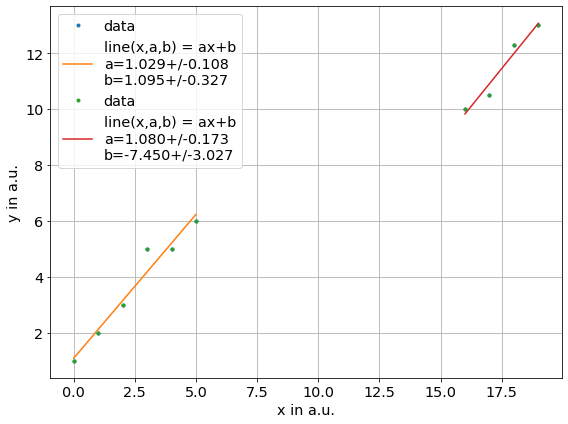
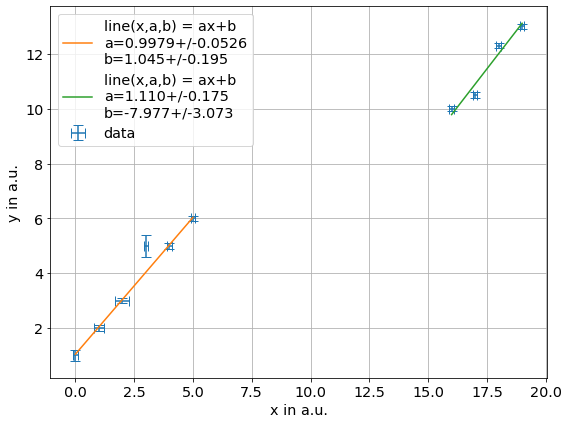
Deploying to gh-pages from  @ 96b0550a83229928ab08a0a710f75b3ecffa3be0 🚀

diff --git a/searchindex.js b/searchindex.js
@@ -1,1 +1,1 @@
-Search.setIndex({docnames:["_autosummary/smpl.debug","_autosummary/smpl.doc","_autosummary/smpl.functions","_autosummary/smpl.io","_autosummary/smpl.parallel","_autosummary/smpl.plot","_autosummary/smpl.util","example/index","example/parallel/parallel","example/plot/custom/test_custom","example/plot/functions/funcs","example/plot/index","example/plot/linear/test_linear","example/plot/multiplot/multi","example/plot/residue/residue","example/plot/selective_fit/test_selective_fit","index"],envversion:{"sphinx.domains.c":2,"sphinx.domains.changeset":1,"sphinx.domains.citation":1,"sphinx.domains.cpp":3,"sphinx.domains.index":1,"sphinx.domains.javascript":2,"sphinx.domains.math":2,"sphinx.domains.python":2,"sphinx.domains.rst":2,"sphinx.domains.std":1,"sphinx.ext.todo":2,"sphinx.ext.viewcode":1,nbsphinx:3,sphinx:56},filenames:["_autosummary/smpl.debug.rst","_autosummary/smpl.doc.rst","_autosummary/smpl.functions.rst","_autosummary/smpl.io.rst","_autosummary/smpl.parallel.rst","_autosummary/smpl.plot.rst","_autosummary/smpl.util.rst","example/index.rst","example/parallel/parallel.ipynb","example/plot/custom/test_custom.ipynb","example/plot/functions/funcs.ipynb","example/plot/index.rst","example/plot/linear/test_linear.ipynb","example/plot/multiplot/multi.ipynb","example/plot/residue/residue.ipynb","example/plot/selective_fit/test_selective_fit.ipynb","index.rst"],objects:{"":{smpl:[16,0,0,"-"]},"smpl.debug":{file1:[0,1,1,""],file:[0,1,1,""],msg1:[0,1,1,""],msg:[0,1,1,""],once:[0,1,1,""],table:[0,1,1,""],table_flush_header:[0,1,1,""],table_flush_line:[0,1,1,""]},"smpl.doc":{append:[1,1,1,""],insert_eq:[1,1,1,""]},"smpl.functions":{"const":[2,1,1,""],cos_abs:[2,1,1,""],exponential:[2,1,1,""],fft:[2,1,1,""],gauss:[2,1,1,""],line:[2,1,1,""],linear:[2,1,1,""],lorentz:[2,1,1,""],quadratic:[2,1,1,""]},"smpl.io":{gf:[3,1,1,""],pwd:[3,1,1,""]},"smpl.parallel":{calc:[4,1,1,""],gen:[4,1,1,""],par:[4,1,1,""],res:[4,1,1,""]},"smpl.plot":{"function":[5,1,1,""],data:[5,1,1,""],fit:[5,1,1,""],unv:[5,1,1,""],usd:[5,1,1,""]},"smpl.util":{has:[6,1,1,""]},smpl:{debug:[0,0,0,"-"],doc:[1,0,0,"-"],functions:[2,0,0,"-"],io:[3,0,0,"-"],parallel:[4,0,0,"-"],plot:[5,0,0,"-"],util:[6,0,0,"-"]}},objnames:{"0":["py","module","Python module"],"1":["py","function","Python function"]},objtypes:{"0":"py:module","1":"py:function"},terms:{"0000507902447304":8,"0034626572607985":14,"004652486401592212":9,"004996586085156836":9,"005548445222666175":9,"0175":9,"017517668891345015":9,"0370200979931061":14,"05947578069703216":14,"0675892412774686":9,"100":[8,10],"1000000":8,"1024":8,"1089":8,"1156":8,"121":8,"1225":8,"1296":8,"132":9,"1369":8,"137":9,"144":8,"1444":8,"1521":8,"1600":8,"1681":8,"169":8,"1764":8,"180":9,"1849":8,"1936":8,"196":8,"19838016816365187":14,"2025":8,"2094692219099785e":9,"2116":8,"2209":8,"223":14,"225":8,"2304":8,"2401":8,"2500":8,"256":8,"2601":8,"2704":8,"2809":8,"289":8,"2916":8,"2\u03c0f":2,"3025":8,"3136":8,"31556952":8,"324":8,"3249":8,"3364":8,"3481":8,"3600":8,"361":8,"3721":8,"3844":8,"3969":8,"400":8,"4096":8,"4225":8,"4356":8,"441":8,"4489":8,"4624":8,"4761":8,"484":8,"4900":8,"5041":8,"5184":8,"529":8,"5329":8,"5476":8,"5625":8,"576":8,"5776":8,"5929":8,"6084":8,"6169371384944835":9,"6241":8,"625":8,"6400":8,"6561":8,"6724":8,"676":8,"6889":8,"7056":8,"7225":8,"729":8,"7396":8,"7569":8,"77077909042768":9,"7744":8,"784":8,"7921":8,"799999999999997":8,"8100":8,"8281":8,"841":8,"8464":8,"8649":8,"8836":8,"900":8,"9025":8,"9216":8,"9409":8,"9604":8,"961":8,"9801":8,"class":5,"const":2,"float":5,"function":[0,1,3,4,5,6,7,8,9,11,12,13,14,15,16],"import":[5,8,9,10,12,13,14,15],"int":[5,13],"new":[5,8,12],"return":[0,3,4,5,8,9,13],"true":[0,14],Axes:14,__doc__:1,_back:0,_kei:0,_msg:0,_print:0,_valu:0,add:5,adt:13,against:5,also:5,also_data:[5,15],also_fit:5,anlg:9,apn:14,append:1,arg:[4,5],arr:5,arrai:[5,9,12,14],array_lik:5,avail:[8,12],axi:5,basic:4,becaus:5,between:5,bool:5,calc:[4,8],call:5,can:5,cdot:2,check:6,code:[1,5],collect:16,color:5,compat:14,contain:5,cos:[2,9,10],cos_ab:2,csv:[0,9],current:[0,3],custom:[7,11,16],dat:14,data:[5,9,12,14,15],data_color:5,data_malu:9,datai:5,datax:5,ddot:10,debug_level:0,debug_t:0,def:[1,4,8,9,13],delimit:[9,14],deriv:5,deviat:5,dict:6,differ:5,digit:3,dirti:14,displai:5,document:1,doe:5,dot:[11,13],dtype:[9,14],each:4,egg:14,either:5,element:[4,5],end:5,equal:1,errorbar:5,evalu:4,exampl:[1,4,5,16],execut:4,exp:[2,11,13],exponenti:2,fals:[0,13,14,15],fft:2,figur:14,file1:0,file:[0,3,5],filenam:0,first:5,fit:[5,7,11,14,16],fit_color:5,fix:10,fmt:[5,12,14,15],format:[3,5],frac:[2,10,13],frang:[5,15],from:[0,4,5,8,9,10,12,13,14,15],func:5,gauss:2,gen:4,gener:[4,6],given:5,gompertz:13,grid:5,has:6,have:5,highest:5,hiho:1,hire:5,home:14,i_max:9,i_min:9,impli:[10,13],includ:14,incorrect:14,index:[5,16],init:[5,13,14,15],initi:5,input:3,insert:1,insert_eq:1,instal:[8,12],integ:5,intens:9,its:1,just:0,kei:[0,6],kwarg:[0,4,5],label:[5,12,14,15],lambda:[4,10,15],left:2,legend:5,level:0,lib:14,like:0,limit:5,line:[2,5,12,14,15],line_:0,linear:[2,7,11,16],list:[2,4,5],loadtxt:[9,12,14,15],local:14,log:[10,13],logarithm:5,logi:[5,14],logx:5,long_calc:8,lorentz:2,lowest:5,lpo:[5,12],lt0:10,malu:9,mask:5,mathbb:10,matplotlib:14,matrix:5,max:9,messag:0,metast:10,might:14,min:9,model:14,modul:[5,16],msg1:0,msg:0,multiplot:[7,11,16],name:5,nomin:5,none:[5,6],number:5,number_format:5,numpi:[5,9,10,12,13,14,15],object:[1,9,14],onc:0,one:0,onli:[0,5,10],optim:5,option:5,order:5,origin:1,other:5,output:3,packag:14,page:16,par:[4,8],parallel:[7,16],param:[5,9,12],paramet:[1,5],pass:5,path:3,pdf:5,phi:2,pip:[8,12],plot:[7,8,9,10,12,13,15,16],plot_data:15,plt:[5,14],png:5,point:[5,10],posit:5,prang:5,print:[0,1,4,8],pure:5,pwd:3,py3:14,pyplot:14,python3:14,python:[0,1],quadrat:2,rad:9,rang:[4,5,8],res:[4,8],residu:[5,7,11,16],residue_err:[5,14],resolut:5,result:[5,14],right:2,round:5,save:[0,5],scientif:3,search:16,second:5,select:[7,11,16],selector:[5,15],separ:13,seper:0,set:0,show:[5,13,15],sigma:[5,12,14],sign:1,simplifi:[0,1,3,5,6,16],simultan:5,site:14,skiprow:[9,14],smpl:[8,9,10,12,13,14,15],solution_gompertz:13,sourc:[0,1,2,3,4,5,6],stabl:10,standard:5,start:5,step:[5,10],str:5,string:[1,5],tabl:0,table_flush_head:0,table_flush_lin:0,tag:0,take:5,tan:11,target:1,test:8,test_custom_data:9,test_data:15,test_linear_data:[12,14],thi:[5,14],through:5,tight_layout:14,time:[0,5],twice:4,txt:[12,14,15],type:5,uarrai:[5,9,12,14,15],uncertainti:[5,9,12,14,15],unit:[5,9,14],unp:[5,9,12,14,15],unreleas:[10,13,14],unstabl:10,untouch:5,unumpi:[5,9,12,14,15],unv:5,upgrad:[8,12],usd:5,user:[8,12],userwarn:14,using:[10,13,14],util:16,valu:[0,4,5],variabl:13,variou:2,veri:4,version:[8,10,12,13,14],via:[5,8,12],x_0:2,xaxi:[5,9,10,12,13,14,15],xdata:[9,12,14,15],xerr:[12,14,15],xmax:[5,10,13],xmin:[5,10,13],y_0:2,yaxi:[5,9,10,12,13,14,15],ydata:[9,12,14,15],yerr:[12,14,15],ymodel:14,you:[10,13,14]},titles:["<code class=\"xref py py-mod docutils literal notranslate\"><span class=\"pre\">smpl.debug</span></code>","<code class=\"xref py py-mod docutils literal notranslate\"><span class=\"pre\">smpl.doc</span></code>","<code class=\"xref py py-mod docutils literal notranslate\"><span class=\"pre\">smpl.functions</span></code>","<code class=\"xref py py-mod docutils literal notranslate\"><span class=\"pre\">smpl.io</span></code>","<code class=\"xref py py-mod docutils literal notranslate\"><span class=\"pre\">smpl.parallel</span></code>","<code class=\"xref py py-mod docutils literal notranslate\"><span class=\"pre\">smpl.plot</span></code>","<code class=\"xref py py-mod docutils literal notranslate\"><span class=\"pre\">smpl.util</span></code>","Examples","Parallel","Custom Fit","Functions","Plotting","Linear Fit","Multiplot","Residue Plot","Selective Fit","smpl 0.0.41 documentation"],titleterms:{"function":[2,10],custom:9,debug:0,doc:1,document:16,dot:10,exampl:7,exp:10,fit:[9,12,15],indic:16,linear:12,multiplot:13,packag:16,parallel:[4,8],plot:[5,11,14],residu:14,select:15,smpl:[0,1,2,3,4,5,6,16],tabl:16,tan:10,util:6}})
+Search.setIndex({docnames:["_autosummary/smpl.debug","_autosummary/smpl.doc","_autosummary/smpl.functions","_autosummary/smpl.io","_autosummary/smpl.parallel","_autosummary/smpl.plot","_autosummary/smpl.util","example/index","example/parallel/parallel","example/plot/custom/test_custom","example/plot/functions/funcs","example/plot/index","example/plot/linear/test_linear","example/plot/multiplot/multi","example/plot/residue/residue","example/plot/selective_fit/test_selective_fit","index"],envversion:{"sphinx.domains.c":2,"sphinx.domains.changeset":1,"sphinx.domains.citation":1,"sphinx.domains.cpp":3,"sphinx.domains.index":1,"sphinx.domains.javascript":2,"sphinx.domains.math":2,"sphinx.domains.python":2,"sphinx.domains.rst":2,"sphinx.domains.std":1,"sphinx.ext.todo":2,"sphinx.ext.viewcode":1,nbsphinx:3,sphinx:56},filenames:["_autosummary/smpl.debug.rst","_autosummary/smpl.doc.rst","_autosummary/smpl.functions.rst","_autosummary/smpl.io.rst","_autosummary/smpl.parallel.rst","_autosummary/smpl.plot.rst","_autosummary/smpl.util.rst","example/index.rst","example/parallel/parallel.ipynb","example/plot/custom/test_custom.ipynb","example/plot/functions/funcs.ipynb","example/plot/index.rst","example/plot/linear/test_linear.ipynb","example/plot/multiplot/multi.ipynb","example/plot/residue/residue.ipynb","example/plot/selective_fit/test_selective_fit.ipynb","index.rst"],objects:{"":{smpl:[16,0,0,"-"]},"smpl.debug":{file1:[0,1,1,""],file:[0,1,1,""],msg1:[0,1,1,""],msg:[0,1,1,""],once:[0,1,1,""],table:[0,1,1,""],table_flush_header:[0,1,1,""],table_flush_line:[0,1,1,""]},"smpl.doc":{append:[1,1,1,""],insert_eq:[1,1,1,""]},"smpl.functions":{"const":[2,1,1,""],cos_abs:[2,1,1,""],exponential:[2,1,1,""],fft:[2,1,1,""],gauss:[2,1,1,""],line:[2,1,1,""],linear:[2,1,1,""],lorentz:[2,1,1,""],quadratic:[2,1,1,""]},"smpl.io":{gf:[3,1,1,""],pwd:[3,1,1,""]},"smpl.parallel":{calc:[4,1,1,""],gen:[4,1,1,""],par:[4,1,1,""],res:[4,1,1,""]},"smpl.plot":{"function":[5,1,1,""],data:[5,1,1,""],fit:[5,1,1,""],unv:[5,1,1,""],usd:[5,1,1,""]},"smpl.util":{has:[6,1,1,""]},smpl:{debug:[0,0,0,"-"],doc:[1,0,0,"-"],functions:[2,0,0,"-"],io:[3,0,0,"-"],parallel:[4,0,0,"-"],plot:[5,0,0,"-"],util:[6,0,0,"-"]}},objnames:{"0":["py","module","Python module"],"1":["py","function","Python function"]},objtypes:{"0":"py:module","1":"py:function"},terms:{"0000507902447304":8,"0034626572607985":14,"004652486401592212":9,"004996586085156836":9,"005548445222666175":9,"0175":9,"017517668891345015":9,"0370200979931061":14,"05947578069703216":14,"0675892412774686":9,"100":[8,10],"1000000":8,"1024":8,"1089":8,"1156":8,"121":8,"1225":8,"1296":8,"132":9,"1369":8,"137":9,"144":8,"1444":8,"1521":8,"1600":8,"1681":8,"169":8,"1764":8,"180":9,"1849":8,"1936":8,"196":8,"19838016816365187":14,"2025":8,"2094692219099785e":9,"2116":8,"2209":8,"223":14,"225":8,"2304":8,"2401":8,"2500":8,"256":8,"2601":8,"2704":8,"2809":8,"289":8,"2916":8,"2\u03c0f":2,"3025":8,"3136":8,"31556952":8,"324":8,"3249":8,"3364":8,"3481":8,"3600":8,"361":8,"3721":8,"3844":8,"3969":8,"400":8,"4096":8,"4225":8,"4356":8,"441":8,"4489":8,"4624":8,"4761":8,"484":8,"4900":8,"5041":8,"5184":8,"529":8,"5329":8,"5476":8,"5625":8,"576":8,"5776":8,"5929":8,"6084":8,"6169371384944835":9,"6241":8,"625":8,"6400":8,"6561":8,"6724":8,"676":8,"6889":8,"7056":8,"7225":8,"729":8,"7396":8,"7569":8,"77077909042768":9,"7744":8,"784":8,"7921":8,"799999999999997":8,"8100":8,"8281":8,"841":8,"8464":8,"8649":8,"8836":8,"900":8,"9025":8,"9216":8,"9409":8,"9604":8,"961":8,"9801":8,"class":5,"const":2,"float":5,"function":[0,1,3,4,5,6,7,8,9,11,12,13,14,15,16],"import":[5,8,9,10,12,13,14,15],"int":[5,13],"new":[5,8,12],"return":[0,3,4,5,8,9,13],"true":[0,14],Axes:14,__doc__:1,_back:0,_kei:0,_msg:0,_print:0,_valu:0,add:5,adt:13,against:5,also:5,also_data:[5,15],also_fit:5,anlg:9,apn:14,append:1,arg:[4,5],arr:5,arrai:[5,9,12,14],array_lik:5,avail:[8,12],axi:5,basic:4,becaus:5,between:5,bool:5,calc:[4,8],call:5,can:5,cdot:2,check:6,code:[1,5],collect:16,color:5,compat:14,contain:5,cos:[2,9,10],cos_ab:2,csv:[0,9],current:[0,3],custom:[7,11,16],dat:14,data:[5,9,12,14,15],data_color:5,data_malu:9,datai:5,datax:5,ddot:10,debug_level:0,debug_t:0,def:[1,4,8,9,13],delimit:[9,14],deriv:5,deviat:5,dict:6,differ:5,digit:3,dirti:14,displai:5,document:1,doe:5,dot:[11,13],dtype:[9,14],each:4,egg:14,either:5,element:[4,5],end:5,equal:1,errorbar:5,evalu:4,exampl:[1,4,5,16],execut:4,exp:[2,11,13],exponenti:2,fals:[0,13,14,15],fft:2,figur:14,file1:0,file:[0,3,5],filenam:0,first:5,fit:[5,7,11,14,16],fit_color:5,fix:10,fmt:[5,12,14,15],format:[3,5],frac:[2,10,13],frang:[5,15],from:[0,4,5,8,9,10,12,13,14,15],func:5,gauss:2,gen:4,gener:[4,6],given:5,gompertz:13,grid:5,has:6,have:5,highest:5,hiho:1,hire:5,home:14,i_max:9,i_min:9,impli:[10,13],includ:14,incorrect:14,index:[5,16],init:[5,13,14,15],initi:5,input:3,insert:1,insert_eq:1,instal:[8,12],integ:5,intens:9,its:1,just:0,kei:[0,6],kwarg:[0,4,5],label:[5,12,14,15],lambda:[4,10,15],left:2,legend:5,level:0,lib:14,like:0,limit:5,line:[2,5,12,14,15],line_:0,linear:[2,7,11,16],list:[2,4,5],loadtxt:[9,12,14,15],local:14,log:[10,13],logarithm:5,logi:[5,14],logx:5,long_calc:8,lorentz:2,lowest:5,lpo:[5,12],lt0:10,malu:9,mask:5,mathbb:10,matplotlib:14,matrix:5,max:9,messag:0,metast:10,might:14,min:9,model:14,modul:[5,16],msg1:0,msg:0,multiplot:[7,11,16],name:5,nomin:5,none:[5,6],number:5,number_format:5,numpi:[5,9,10,12,13,14,15],object:[1,9,14],onc:0,one:0,onli:[0,5,10],optim:5,option:5,order:5,origin:1,other:5,output:3,packag:14,page:16,par:[4,8],parallel:[7,16],param:[5,9,12],paramet:[1,5],pass:5,path:3,pdf:5,phi:2,pip:[8,12],plot:[7,8,9,10,12,13,15,16],plt:[5,14],png:5,point:[5,10],posit:5,prang:5,print:[0,1,4,8],pure:5,pwd:3,py3:14,pyplot:14,python3:14,python:[0,1],quadrat:2,rad:9,rang:[4,5,8],res:[4,8],residu:[5,7,11,16],residue_err:[5,14],resolut:5,result:[5,14],right:2,round:5,save:[0,5],scientif:3,search:16,second:5,select:[7,11,16],selector:[5,15],separ:13,seper:0,set:0,show:[5,13,15],sigma:[5,12,14],sign:1,simplifi:[0,1,3,5,6,16],simultan:5,site:14,skiprow:[9,14],smpl:[8,9,10,12,13,14,15],solution_gompertz:13,sourc:[0,1,2,3,4,5,6],stabl:10,standard:5,start:5,step:[5,10],str:5,string:[1,5],tabl:0,table_flush_head:0,table_flush_lin:0,tag:0,take:5,tan:11,target:1,test:8,test_custom_data:9,test_data:15,test_linear_data:[12,14],thi:[5,14],through:5,tight_layout:14,time:[0,5],twice:4,txt:[12,14,15],type:5,uarrai:[5,9,12,14,15],uncertainti:[5,9,12,14,15],unit:[5,9,14],unp:[5,9,12,14,15],unreleas:[10,13,14],unstabl:10,untouch:5,unumpi:[5,9,12,14,15],unv:5,upgrad:[8,12],usd:5,user:[8,12],userwarn:14,using:[10,13,14],util:16,valu:[0,4,5],variabl:13,variou:2,veri:4,version:[8,10,12,13,14],via:[5,8,12],x_0:2,xaxi:[5,9,10,12,13,14,15],xdata:[9,12,14,15],xerr:[12,14,15],xmax:[5,10,13],xmin:[5,10,13],y_0:2,yaxi:[5,9,10,12,13,14,15],ydata:[9,12,14,15],yerr:[12,14,15],ymodel:14,you:[10,13,14]},titles:["<code class=\"xref py py-mod docutils literal notranslate\"><span class=\"pre\">smpl.debug</span></code>","<code class=\"xref py py-mod docutils literal notranslate\"><span class=\"pre\">smpl.doc</span></code>","<code class=\"xref py py-mod docutils literal notranslate\"><span class=\"pre\">smpl.functions</span></code>","<code class=\"xref py py-mod docutils literal notranslate\"><span class=\"pre\">smpl.io</span></code>","<code class=\"xref py py-mod docutils literal notranslate\"><span class=\"pre\">smpl.parallel</span></code>","<code class=\"xref py py-mod docutils literal notranslate\"><span class=\"pre\">smpl.plot</span></code>","<code class=\"xref py py-mod docutils literal notranslate\"><span class=\"pre\">smpl.util</span></code>","Examples","Parallel","Custom Fit","Functions","Plotting","Linear Fit","Multiplot","Residue Plot","Selective Fit","smpl 0.0.42 documentation"],titleterms:{"function":[2,10],custom:9,debug:0,doc:1,document:16,dot:10,exampl:7,exp:10,fit:[9,12,15],indic:16,linear:12,multiplot:13,packag:16,parallel:[4,8],plot:[5,11,14],residu:14,select:15,smpl:[0,1,2,3,4,5,6,16],tabl:16,tan:10,util:6}})

diff --git a/example/plot/selective_fit/test_selective_fit.html b/example/plot/selective_fit/test_selective_fit.html
@@ -300,7 +300,7 @@ import uncertainties.unumpy as unp
 </div>
 </div>
 <div class="nbinput nblast docutils container">
-<div class="prompt highlight-none notranslate"><div class="highlight"><pre><span></span>[2]:
+<div class="prompt highlight-none notranslate"><div class="highlight"><pre><span></span>[6]:
 </pre></div>
 </div>
 <div class="input_area highlight-ipython3 notranslate"><div class="highlight"><pre>
@@ -346,13 +346,13 @@ plot.show()
 </div>
 </div>
 <div class="nbinput docutils container">
-<div class="prompt highlight-none notranslate"><div class="highlight"><pre><span></span>[4]:
+<div class="prompt highlight-none notranslate"><div class="highlight"><pre><span></span>[8]:
 </pre></div>
 </div>
 <div class="input_area highlight-ipython3 notranslate"><div class="highlight"><pre>
 
-<span></span>ff = plot.fit(xdata, ydata, fmt=&#39;.&#39;, label=&#39;data&#39;, xaxis=&quot;x in a.u.&quot;,yaxis=&quot;y in a.u.&quot;,function=f.line, selector=lambda x,y : x&lt;10)
-ff = plot.fit(xdata, ydata, fmt=&#39;.&#39;, label=&#39;data&#39;, xaxis=&quot;x in a.u.&quot;,yaxis=&quot;y in a.u.&quot;,function=f.line, selector=lambda x,y : x &gt;10,plot_data=False,init=False)
+<span></span>ff = plot.fit(x, y, fmt=&#39;.&#39;, label=&#39;data&#39;, xaxis=&quot;x in a.u.&quot;,yaxis=&quot;y in a.u.&quot;,function=f.line, selector=lambda x,y : x&lt;10)
+ff = plot.fit(x, y, fmt=&#39;.&#39;, label=&#39;data&#39;, xaxis=&quot;x in a.u.&quot;,yaxis=&quot;y in a.u.&quot;,function=f.line, selector=lambda x,y : x &gt;10,also_data=False,init=False)
 plot.show()
 </pre></div>
 </div>
@@ -373,6 +373,15 @@ selecting
 </div>
 <div class="output_area docutils container">
 <img alt="../../../_images/example_plot_selective_fit_test_selective_fit_5_1.png" src="../../../_images/example_plot_selective_fit_test_selective_fit_5_1.png" />
+</div>
+</div>
+<div class="nbinput nblast docutils container">
+<div class="prompt highlight-none notranslate"><div class="highlight"><pre><span></span>[ ]:
+</pre></div>
+</div>
+<div class="input_area highlight-ipython3 notranslate"><div class="highlight"><pre>
+<span></span>
+</pre></div>
 </div>
 </div>
 </div>

diff --git a/index.html b/index.html
@@ -5,7 +5,7 @@
   <head>
     <meta charset="utf-8" />
     <meta name="viewport" content="width=device-width, initial-scale=1.0" />
-    <title>smpl 0.0.41 documentation &#8212; smpl  documentation</title>
+    <title>smpl 0.0.42 documentation &#8212; smpl  documentation</title>
     <link rel="stylesheet" href="_static/pygments.css" type="text/css" />
     <link rel="stylesheet" href="_static/alabaster.css" type="text/css" />
     <script id="documentation_options" data-url_root="./" src="_static/documentation_options.js"></script>
@@ -36,7 +36,7 @@
           <div class="body" role="main">
             
   <div class="section" id="smpl-version-documentation">
-<h1>smpl 0.0.41 documentation<a class="headerlink" href="#smpl-version-documentation" title="Permalink to this headline">¶</a></h1>
+<h1>smpl 0.0.42 documentation<a class="headerlink" href="#smpl-version-documentation" title="Permalink to this headline">¶</a></h1>
 <div class="toctree-wrapper compound">
 <ul>
 <li class="toctree-l1"><a class="reference internal" href="example/index.html">Examples</a><ul>

diff --git a/example/index.html b/example/index.html
@@ -19,7 +19,7 @@
     <link rel="index" title="Index" href="../genindex.html" />
     <link rel="search" title="Search" href="../search.html" />
     <link rel="next" title="Plotting" href="plot/index.html" />
-    <link rel="prev" title="smpl 0.0.41 documentation" href="../index.html" />
+    <link rel="prev" title="smpl 0.0.42 documentation" href="../index.html" />
    
   <link rel="stylesheet" href="../_static/custom.css" type="text/css" />
   
@@ -92,7 +92,7 @@
 <h3>Related Topics</h3>
 <ul>
   <li><a href="../index.html">Documentation overview</a><ul>
-      <li>Previous: <a href="../index.html" title="previous chapter">smpl 0.0.41 documentation</a></li>
+      <li>Previous: <a href="../index.html" title="previous chapter">smpl 0.0.42 documentation</a></li>
       <li>Next: <a href="plot/index.html" title="next chapter">Plotting</a></li>
   </ul></li>
 </ul>
